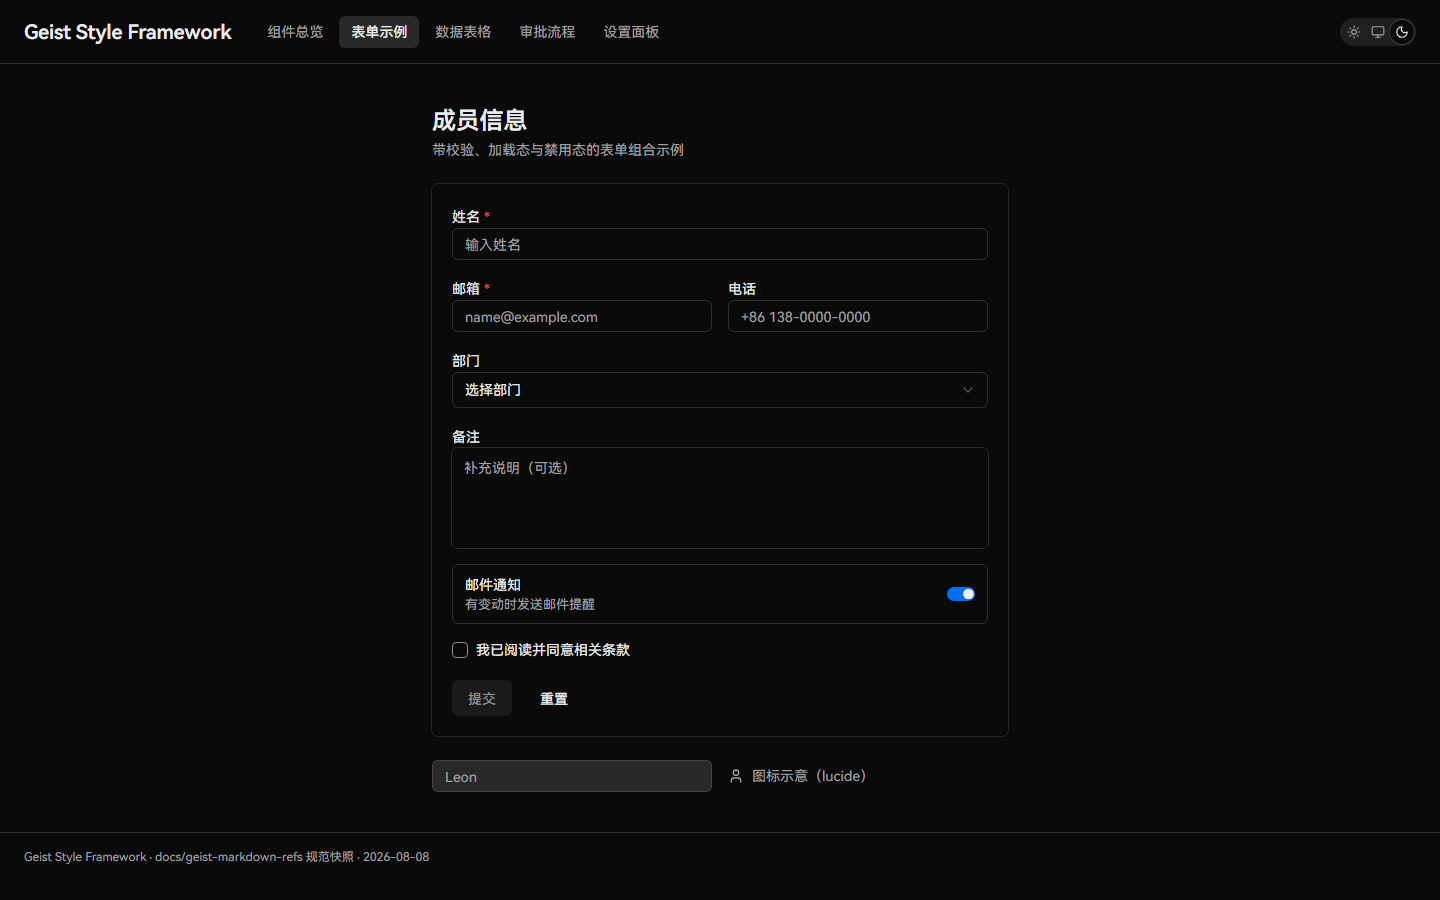
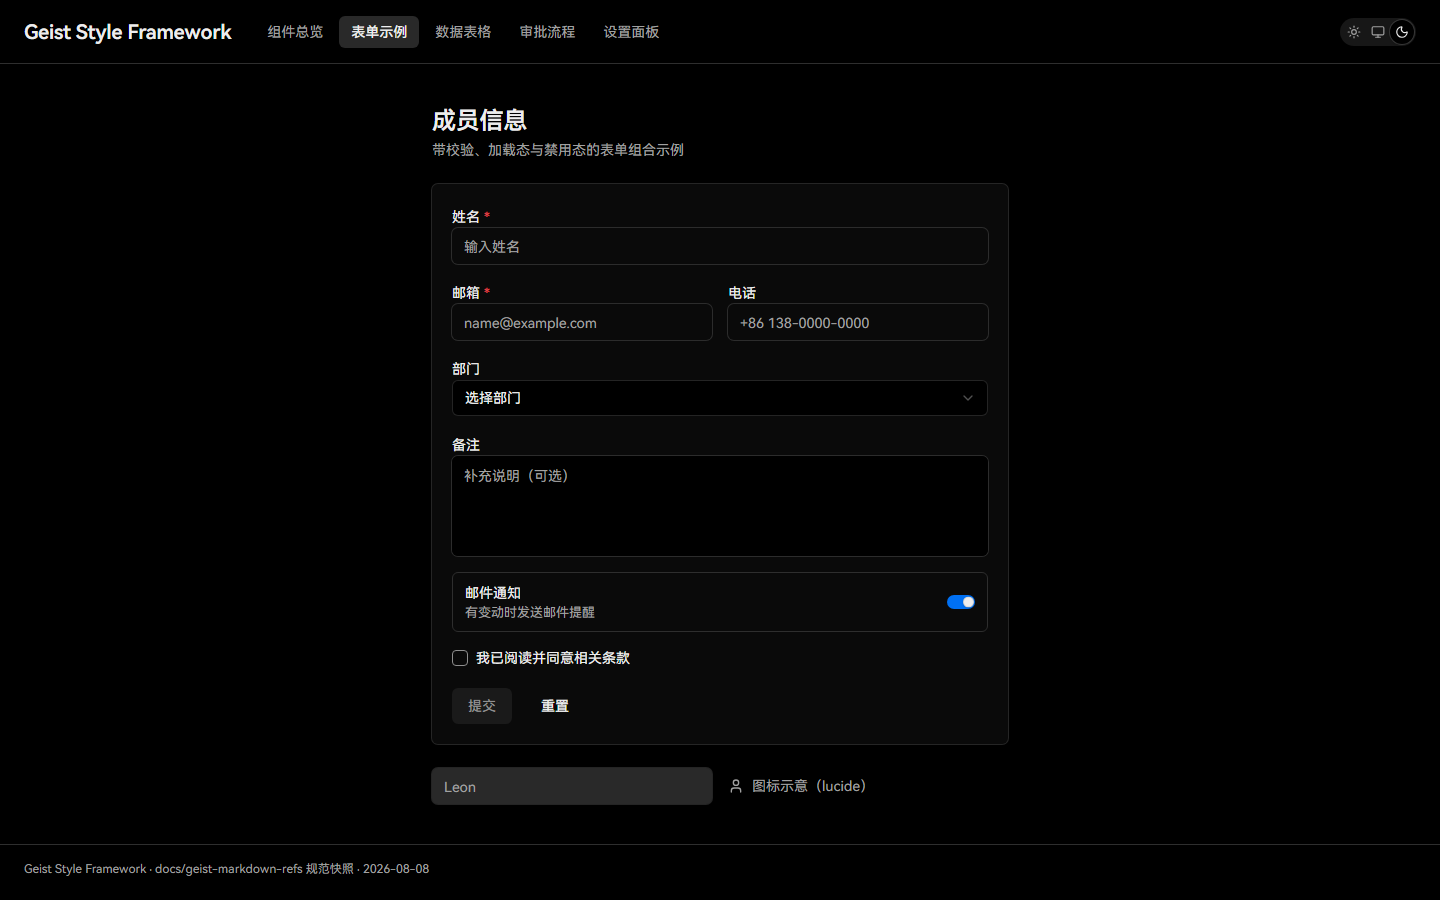
fix(ui): 对齐 Checkbox 主题焦点态
按实时官方 computed style 将焦点环映射为浅色 #0072f5、深色 #52a8ff，并让未选中 Checkbox 使用 background-100 表面。同步契约测试、审计证据和 README 效果图。

Co-Authored by GPT-5.6 Sol

diff --git a/src/styles/index.css b/src/styles/index.css
@@ -303,9 +303,10 @@
   /* misc */
   --overlay: #00000099;
   --color-focus-ring: #171717; /* gray-1000 */
+  --focus-ring-color: #0072f5; /* official --ds-focus-ring light */
 
-  /* 焦点环（官方 --ds-focus-ring 实测：2px 背景色描边 + 4px 主色 ring） */
-  --focus-ring-outline: 0 0 0 2px var(--color-bg-surface), 0 0 0 4px var(--link);
+  /* 焦点环（官方 --ds-focus-ring 实测：2px 背景色描边 + 4px 主题焦点蓝） */
+  --focus-ring-outline: 0 0 0 2px var(--color-bg-surface), 0 0 0 4px var(--focus-ring-color);
 
   /* 表单控件 focus（官方 Input/Select/Textarea 实测：边框加深 + 同色系柔光，150ms 过渡） */
   --input-focus-border: rgba(0, 0, 0, 0.34);
@@ -544,9 +545,10 @@
   /* misc */
   --overlay: #000000b3;
   --color-focus-ring: #ededed; /* gray-1000 */
+  --focus-ring-color: #52a8ff; /* official --ds-focus-ring dark */
 
-  /* 焦点环（Dark：2px 深色背景描边 + 4px 主色 ring） */
-  --focus-ring-outline: 0 0 0 2px var(--color-bg-surface), 0 0 0 4px var(--link);
+  /* 焦点环（Dark：2px 深色背景描边 + 4px 主题焦点蓝） */
+  --focus-ring-outline: 0 0 0 2px var(--color-bg-surface), 0 0 0 4px var(--focus-ring-color);
 
   /* 表单控件 focus（官方实测 dark：白 alpha 边框加深 + 柔光） */
   --input-focus-border: rgba(255, 255, 255, 0.51);
@@ -998,7 +1000,8 @@
 
 /*
  * Geist 统一焦点环（官方 --ds-focus-ring 实测）
- * 双环结构：2px 表面色描边（与背景分离）+ 4px 主色 ring（#006efe）。
+ * 双环结构：2px 表面色描边（与背景分离）+ 4px 主题焦点蓝
+ * （light #0072f5 / dark #52a8ff）。
  * 所有可交互基础组件必须消费 focus-ring，页面禁止自定义 outline/ring。
  */
 @utility focus-ring {

diff --git a/tests/foundation-contract.test.ts b/tests/foundation-contract.test.ts
@@ -51,6 +51,15 @@ describe("Geist foundation and docs shell contract", () => {
     expect(css).toMatch(/\.dark[\s\S]*?--input-disabled-placeholder:\s*#444444;/);
   });
 
+  test("focus ring uses the live Geist theme-specific blue in light and dark", async () => {
+    const css = await read("src/styles/index.css");
+    expect(css).toMatch(/:root[\s\S]*?--focus-ring-color:\s*#0072f5;/);
+    expect(css).toMatch(/\.dark[\s\S]*?--focus-ring-color:\s*#52a8ff;/);
+    expect(css).toContain(
+      "--focus-ring-outline: 0 0 0 2px var(--color-bg-surface), 0 0 0 4px var(--focus-ring-color);",
+    );
+  });
+
   test("docs shell provides skip navigation and a focusable main target", async () => {
     const app = await read("docs/geist/src/App.tsx");
     expect(app).toContain('href="#main-content"');

diff --git a/src/components/ui/checkbox.tsx b/src/components/ui/checkbox.tsx
@@ -28,7 +28,7 @@ function Checkbox({
       data-size={size}
       className={cn(
         "group/checkbox grid shrink-0 place-content-center rounded-[4px] border transition-[background-color,border-color] outline-none",
-        "border-gray-700 bg-background hover:border-foreground/40 peer-hover:not-peer-disabled:not-peer-checked:bg-gray-200",
+        "border-gray-700 bg-background-100 hover:border-foreground/40 peer-hover:not-peer-disabled:not-peer-checked:bg-gray-200",
         "focus-ring",
         "disabled:cursor-not-allowed disabled:bg-gray-100 disabled:border-gray-500",
         "data-[state=checked]:border-foreground data-[state=checked]:bg-foreground data-[state=checked]:text-background disabled:data-[state=checked]:border-gray-600 disabled:data-[state=checked]:bg-gray-600",

diff --git a/tests/checkbox-matrix.test.ts b/tests/checkbox-matrix.test.ts
@@ -13,6 +13,8 @@ describe("Checkbox official matrix contract", () => {
     expect(source).toContain("data-[size=sm]:size-4");
     expect(source).toContain("rounded-[4px]");
     expect(source).toContain("focus-ring");
+    expect(source).toContain("border-gray-700 bg-background-100");
+    expect(source).not.toContain("border-gray-700 bg-background ");
   });
 
   test("uses semantic foreground/background tokens for checked and mixed states", () => {

diff --git a/docs/audits/geist-component-and-responsive-remediation-design.md b/docs/audits/geist-component-and-responsive-remediation-design.md
@@ -42,33 +42,33 @@
 
 来源：choicebox-evidence.md §2、clearable-input/evidence-live.md §2、checkbox evidence.json cssVars、context-menu-diff-table.md、drawer/REPORT.md。官方 `--ds-*` 变量是真实存在的基础设施（clearable-input/combobox/drawer/checkbox/choicebox 共用）。
 
-| 官方变量                                           | Light 值                       | Dark 值   | 证据                                                                      |
-| -------------------------------------------------- | ------------------------------ | --------- | ------------------------------------------------------------------------- |
-| `--ds-size-medium`                                 | 36px                           | 36px      | clearable-input（input h36）                                              |
-| `--ds-control-decoration-size`                     | 14px                           | 14px      | clearable-input                                                           |
-| `--ds-focus-color`                                 | hsla(212,100%,48%,1) = #0072f5 | 同        | clearable-input（kbd/按钮 focus outline #0072f5）                         |
-| `--ds-gray-100`                                    | #f2f2f2                        | #1a1a1a   | clearable-input（disabled bg）                                            |
-| `--ds-gray-500`                                    | #c9c9c9                        | #454545   | choicebox（disabled 文字、圆点 border）                                   |
-| `--ds-gray-700`                                    | #8f8f8f                        | #8f8f8f   | clearable-input disabled 文字、checkbox border                            |
-| `--ds-gray-900`                                    | #4d4d4d                        | #a1a1a1   | choicebox desc、clearable label/kbd 文字                                  |
-| `--ds-gray-1000`                                   | #171717                        | #ededed   | choicebox title、clearable 有值文字、checkbox checked bg/border           |
-| `--ds-gray-alpha-400`                              | #00000014                      | #ffffff24 | clearable wrapper ring、drawer border-t、menu ring                        |
-| `--ds-gray-alpha-500`                              | #00000036                      | 待证      | clearable hover ring；Dark 精确值未持久化                                 |
-| `--ds-gray-alpha-600`                              | #00000057                      | #ffffff82 | clearable focus ring 1px 层                                               |
-| `--ds-background-100`                              | #ffffff                        | #0a0a0a   | drawer 面板、context-card dark bg、empty-state 容器、command-menu overlay |
-| `--ds-blue-600`                                    | #52AEFF                        | #0091FF   | choicebox 选中 border                                                     |
-| `--ds-blue-900`                                    | #0068D6                        | #52A8FF   | choicebox 选中文字/指示器                                                 |
-| `--ds-blue-100`                                    | #F0F7FF                        | #0F1C2E   | choicebox 选中 bg                                                         |
-| `--ds-blue-700`                                    | 待证                           | 待证      | collapse focus-visible ring；G7 归属修复后重采                            |
-| indigo-600                                         | #5B5BD6                        | 同        | 非 `--ds-*` 变量；choicebox focus outline                                 |
-| `--ds-focus-ring`                                  | 待证                           | 待证      | checkbox peer-focus-visible、dots-menu data-focus；精确 shadow 未冻结     |
-| `--ds-shadow-border-medium/large`                  | 1px #00000014 + 2 层           | —         | checkbox cssVars 实测                                                     |
-| `--material-shadow-menu`                           | 1px 环 + 4 层 + #fafafa 外环   | 反色系    | context-menu/dots-menu 实测一致                                           |
-| `--ds-shadow-modal`                                | 待证                           | 待证      | command-menu 差异路径 3；精确 shadow 未冻结                               |
-| `--ds-popover-padding` / `--ds-popover-row-height` | 6px / 36px                     | 同        | context-menu                                                              |
-| `--ds-z-menu`                                      | var                            | 同        | dots-menu wrapper `z-[var(--ds-z-menu)]`                                  |
-| `--ds-gray-200`                                    | #EBEBEB                        | #2E2E2E   | empty-state token 实测；choicebox 报告将同值标作 gray-400，命名冲突待核对 |
-| `--ds-gray-600`                                    | 待证                           | 待证      | checkbox checked+disabled bg/border                                       |
+| 官方变量                                           | Light 值                       | Dark 值                   | 证据                                                                      |
+| -------------------------------------------------- | ------------------------------ | ------------------------- | ------------------------------------------------------------------------- |
+| `--ds-size-medium`                                 | 36px                           | 36px                      | clearable-input（input h36）                                              |
+| `--ds-control-decoration-size`                     | 14px                           | 14px                      | clearable-input                                                           |
+| `--ds-focus-color`                                 | hsla(212,100%,48%,1) = #0072f5 | 同                        | clearable-input（kbd/按钮 focus outline #0072f5）                         |
+| `--ds-gray-100`                                    | #f2f2f2                        | #1a1a1a                   | clearable-input（disabled bg）                                            |
+| `--ds-gray-500`                                    | #c9c9c9                        | #454545                   | choicebox（disabled 文字、圆点 border）                                   |
+| `--ds-gray-700`                                    | #8f8f8f                        | #8f8f8f                   | clearable-input disabled 文字、checkbox border                            |
+| `--ds-gray-900`                                    | #4d4d4d                        | #a1a1a1                   | choicebox desc、clearable label/kbd 文字                                  |
+| `--ds-gray-1000`                                   | #171717                        | #ededed                   | choicebox title、clearable 有值文字、checkbox checked bg/border           |
+| `--ds-gray-alpha-400`                              | #00000014                      | #ffffff24                 | clearable wrapper ring、drawer border-t、menu ring                        |
+| `--ds-gray-alpha-500`                              | #00000036                      | 待证                      | clearable hover ring；Dark 精确值未持久化                                 |
+| `--ds-gray-alpha-600`                              | #00000057                      | #ffffff82                 | clearable focus ring 1px 层                                               |
+| `--ds-background-100`                              | #ffffff                        | #0a0a0a                   | drawer 面板、context-card dark bg、empty-state 容器、command-menu overlay |
+| `--ds-blue-600`                                    | #52AEFF                        | #0091FF                   | choicebox 选中 border                                                     |
+| `--ds-blue-900`                                    | #0068D6                        | #52A8FF                   | choicebox 选中文字/指示器                                                 |
+| `--ds-blue-100`                                    | #F0F7FF                        | #0F1C2E                   | choicebox 选中 bg                                                         |
+| `--ds-blue-700`                                    | 待证                           | 待证                      | collapse focus-visible ring；G7 归属修复后重采                            |
+| indigo-600                                         | #5B5BD6                        | 同                        | 非 `--ds-*` 变量；choicebox focus outline                                 |
+| `--ds-focus-ring`                                  | 2px #ffffff + 4px #0072f5      | 2px #0a0a0a + 4px #52a8ff | checkbox peer-focus-visible；2026-08-12 实时 computed style 复核          |
+| `--ds-shadow-border-medium/large`                  | 1px #00000014 + 2 层           | —                         | checkbox cssVars 实测                                                     |
+| `--material-shadow-menu`                           | 1px 环 + 4 层 + #fafafa 外环   | 反色系                    | context-menu/dots-menu 实测一致                                           |
+| `--ds-shadow-modal`                                | 待证                           | 待证                      | command-menu 差异路径 3；精确 shadow 未冻结                               |
+| `--ds-popover-padding` / `--ds-popover-row-height` | 6px / 36px                     | 同                        | context-menu                                                              |
+| `--ds-z-menu`                                      | var                            | 同                        | dots-menu wrapper `z-[var(--ds-z-menu)]`                                  |
+| `--ds-gray-200`                                    | #EBEBEB                        | #2E2E2E                   | empty-state token 实测；choicebox 报告将同值标作 gray-400，命名冲突待核对 |
+| `--ds-gray-600`                                    | 待证                           | 待证                      | checkbox checked+disabled bg/border                                       |
 
 **决策 D-T1**：在 `src/styles/index.css` 主题层建立 `--ds-*` → 本地 Tailwind v4 token 的映射表（只读对照，不替换现有语义 token 的消费方），作为所有整改组件取值的唯一来源；禁止组件内硬编码色值。验收：新增 `tests/audit/ds-token-contract.test.ts`，只对上表已有双主题精确值的变量做数字精确断言；标为“待证”的变量先保持门禁红，不得填入猜测值。
 
@@ -212,8 +212,8 @@
 
 ### 2.10 Checkbox（B1）
 
-- **官方事实**（official-only 64 cell pixel summary + evidence.json）：DOM `input[type=checkbox].sr-only.peer` + `span[--checkbox-color]` 指示器 16×16（size-4）r4（rounded-sm）border `--ds-gray-700`；checked → bg+border `--ds-gray-1000`；indeterminate 类 → svg line 显示；inverted 类变体；peer-checked/peer-disabled 组合（disabled+checked → gray-600；disabled 未选 → bg gray-100 border gray-500；hover → gray-200）；focus-visible `shadow-[var(--ds-focus-ring)]`；transition-all 200ms rotate 微偏移；对勾 svg path 2px。首轮 Dark 详细写入曾因 ENOSPC 失败，最终聚合已包含 32 个 Dark cells；本地运行时矩阵仍缺失。
-- **本地现状**：Radix Checkbox + size prop；无 64-cell 对比。
+- **官方事实**（official-only 64 cell pixel summary + evidence.json）：DOM `input[type=checkbox].sr-only.peer` + `span[--checkbox-color]` 指示器 16×16（size-4）r4（rounded-sm）border `--ds-gray-700`；checked → bg+border `--ds-gray-1000`；indeterminate 类 → svg line 显示；inverted 类变体；peer-checked/peer-disabled 组合（disabled+checked → gray-600；disabled 未选 → bg gray-100 border gray-500；hover → gray-200）；focus-visible `shadow-[var(--ds-focus-ring)]`（light 2px #fff + 4px #0072f5，dark 2px #0a0a0a + 4px #52a8ff）；transition-all 200ms rotate 微偏移；对勾 svg path 2px。首轮 Dark 详细写入曾因 ENOSPC 失败，最终聚合已包含 32 个 Dark cells。
+- **本地现状**：Radix Checkbox + size prop；Task 17 已补齐 Light/Dark × 375/768/1440/1920 本地矩阵，2026-08-12 复核后将未选中背景改为 `background-100`，焦点环改为主题相关官方值。
 - **目标 API**：保持 Checkbox（size/checked/onCheckedChange/disabled/indeterminate）；指示器几何/状态机按官方实现。**Breaking**：无（若 size 默认值与官方不同则迁移）。
 - **响应式**：四视口一致（28×28 裁剪恒定）。
 - **ARIA**：role=checkbox + aria-checked（Radix 原生）；sr-only input 结构对齐官方。
